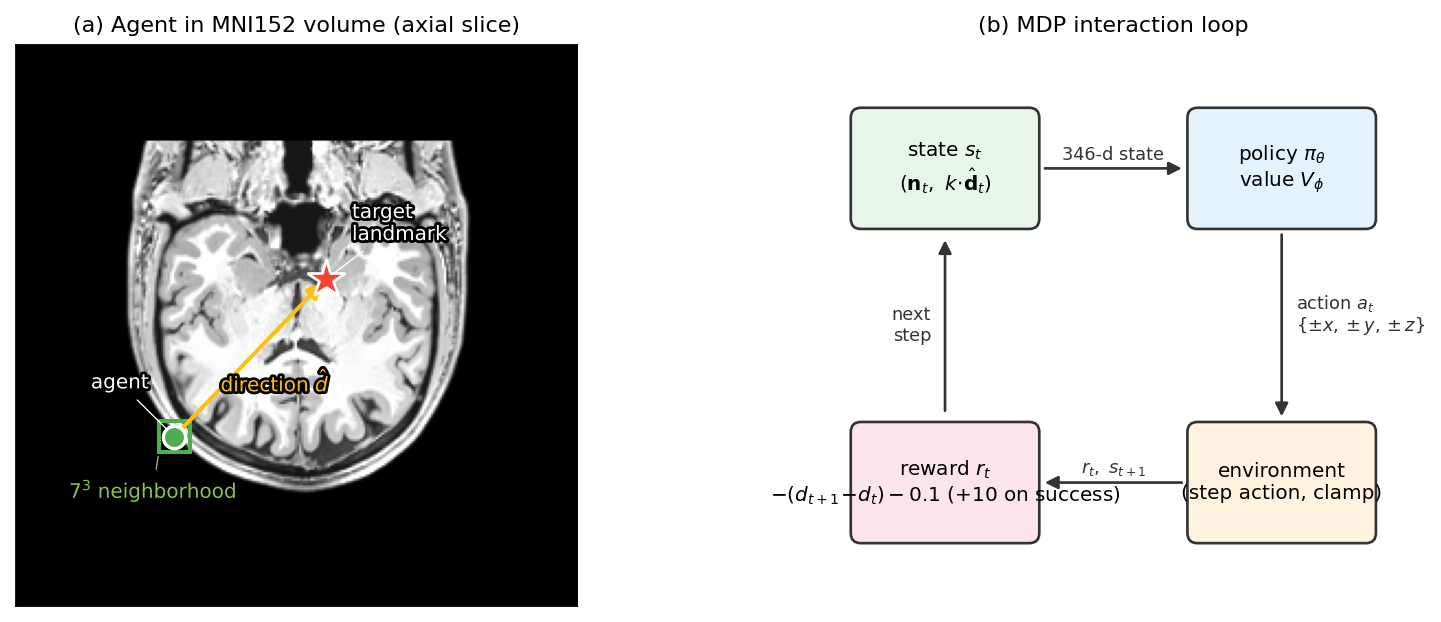
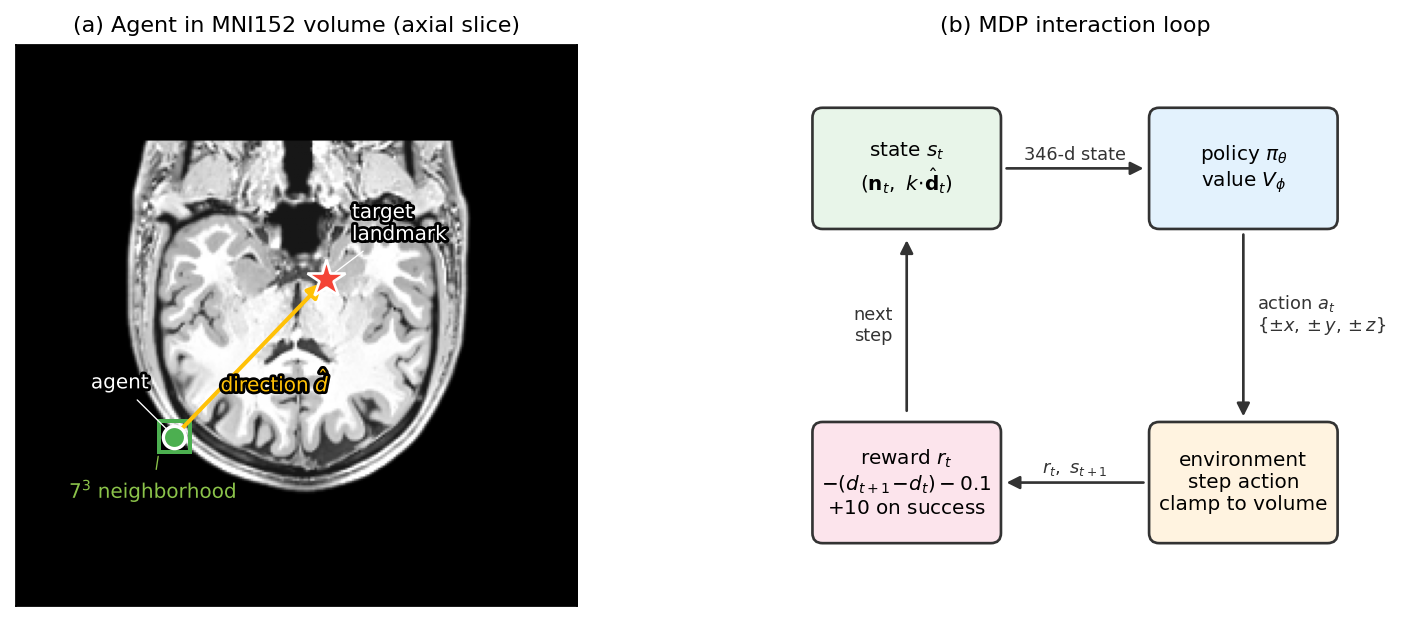
Add landmark-difficulty analysis and multi-scale comparison figures
- New scripts/analyze_landmark_difficulty.py computes per-landmark
  difficulty features (patch std, decoy count, axis dominance) and
  renders docs/figures/landmark_difficulty.png.
- Adds docs/figures/multiscale-comparison/ plots referenced by §5.7 of
  the report and public/experiments/singlescale-600.json results dump.
- Minor readability tweak to the system-diagram renderer (splits
  reward and environment box labels onto separate lines).

diff --git a/scripts/analyze_landmark_difficulty.py b/scripts/analyze_landmark_difficulty.py
@@ -1,0 +1,239 @@
+#!/usr/bin/env python3
+"""Per-landmark difficulty features for the 15 subcortical targets.
+
+Computes for each landmark:
+  - PPO last-50 success rate (from docs/all_results.json)
+  - Patch std: intensity stdev in a 7^3 cube centered on the target voxel
+  - Decoy count: number of voxel positions within 30 voxels of the target whose
+    7^3 patch has mean intensity within 5% of the target patch mean (lower is better)
+  - Axis dominance: |max(|d_i|)| / sum(|d_i|) for the unit direction vector from
+    the volume centroid to the target (analytic geometry proxy; higher = the
+    target lies along one dominant axis from typical starts)
+  - Anatomical class: ventricle / gray-nucleus / brain-stem / cerebellum
+
+Saves a scatter to docs/figures/landmark_difficulty.png and prints a sorted table.
+"""
+import json
+import os
+from pathlib import Path
+import numpy as np
+import nibabel as nib
+import matplotlib.pyplot as plt
+
+REPO = Path(__file__).resolve().parent.parent
+VOL_PATH = REPO / 'public' / 't1_crop.nii.gz'
+PPO_PATH = REPO / 'docs' / 'all_results.json'
+OUT_PATH = REPO / 'docs' / 'figures' / 'landmark_difficulty.png'
+
+# From src/lib/landmarks.ts
+MNI_COORDS = {
+    'Thalamus':                   (99, 134, 82),
+    'Caudate':                    (108, 155, 90),
+    'Putamen':                    (115, 145, 82),
+    'Pallidum':                   (110, 140, 80),
+    'Hippocampus':                (110, 115, 68),
+    'Amygdala':                   (115, 115, 62),
+    'Brain-Stem':                 (90, 118, 58),
+    'Cerebellum-White-Matter':    (100, 100, 45),
+    'Cerebellum-Cortex':          (108, 90, 40),
+    'Lateral-Ventricle':          (96, 145, 92),
+    'Inferior-Lateral-Ventricle': (108, 120, 62),
+    '3rd-Ventricle':              (90, 140, 82),
+    '4th-Ventricle':              (90, 108, 50),
+    'Accumbens-area':             (112, 155, 60),
+    'VentralDC':                  (102, 130, 72),
+}
+
+CLASS = {
+    'Lateral-Ventricle': 'CSF', 'Inferior-Lateral-Ventricle': 'CSF',
+    '3rd-Ventricle': 'CSF', '4th-Ventricle': 'CSF',
+    'Thalamus': 'gray-nucleus', 'Caudate': 'gray-nucleus',
+    'Putamen': 'gray-nucleus', 'Pallidum': 'gray-nucleus',
+    'Hippocampus': 'gray-nucleus', 'Amygdala': 'gray-nucleus',
+    'Accumbens-area': 'gray-nucleus', 'VentralDC': 'gray-nucleus',
+    'Brain-Stem': 'brain-stem',
+    'Cerebellum-White-Matter': 'cerebellum', 'Cerebellum-Cortex': 'cerebellum',
+}
+
+CLASS_COLOR = {
+    'CSF': '#1976D2',
+    'gray-nucleus': '#E64A19',
+    'brain-stem': '#7B1FA2',
+    'cerebellum': '#388E3C',
+}
+
+PATCH_RADIUS = 3   # 7^3 cube
+DECOY_RADIUS = 30  # voxel ball
+DECOY_TOL = 0.05   # within 5% of target patch mean intensity
+
+def patch_at(vol, x, y, z, r=PATCH_RADIUS):
+    return vol[x-r:x+r+1, y-r:y+r+1, z-r:z+r+1]
+
+def normalize(vol):
+    lo, hi = float(vol.min()), float(vol.max())
+    return (vol.astype(np.float32) - lo) / max(hi - lo, 1e-8)
+
+def features():
+    vol = normalize(nib.load(str(VOL_PATH)).get_fdata())
+    cx, cy, cz = (np.array(vol.shape) // 2).tolist()
+
+    out = []
+    for name, (x, y, z) in MNI_COORDS.items():
+        # patch std at landmark
+        p = patch_at(vol, x, y, z)
+        patch_mean = float(p.mean())
+        patch_std = float(p.std())
+
+        # decoy count: voxels within DECOY_RADIUS whose patch mean is within DECOY_TOL of target
+        x0, x1 = max(PATCH_RADIUS, x-DECOY_RADIUS), min(vol.shape[0]-PATCH_RADIUS-1, x+DECOY_RADIUS)
+        y0, y1 = max(PATCH_RADIUS, y-DECOY_RADIUS), min(vol.shape[1]-PATCH_RADIUS-1, y+DECOY_RADIUS)
+        z0, z1 = max(PATCH_RADIUS, z-DECOY_RADIUS), min(vol.shape[2]-PATCH_RADIUS-1, z+DECOY_RADIUS)
+        decoys = 0
+        sample_step = 2  # subsample for speed
+        for xi in range(x0, x1+1, sample_step):
+            for yi in range(y0, y1+1, sample_step):
+                for zi in range(z0, z1+1, sample_step):
+                    if abs(xi-x) < PATCH_RADIUS and abs(yi-y) < PATCH_RADIUS and abs(zi-z) < PATCH_RADIUS:
+                        continue  # skip the target itself
+                    if (xi-x)**2 + (yi-y)**2 + (zi-z)**2 > DECOY_RADIUS**2:
+                        continue
+                    pm = float(vol[xi-PATCH_RADIUS:xi+PATCH_RADIUS+1,
+                                   yi-PATCH_RADIUS:yi+PATCH_RADIUS+1,
+                                   zi-PATCH_RADIUS:zi+PATCH_RADIUS+1].mean())
+                    if abs(pm - patch_mean) < DECOY_TOL:
+                        decoys += 1
+
+        # axis dominance: |d| max / sum, from volume centroid to target
+        d = np.array([x - cx, y - cy, z - cz], dtype=float)
+        absd = np.abs(d)
+        axis_dom = float(absd.max() / max(absd.sum(), 1e-8))
+
+        out.append({
+            'name': name,
+            'class': CLASS[name],
+            'patch_std': patch_std,
+            'patch_mean': patch_mean,
+            'decoys': decoys,
+            'axis_dom': axis_dom,
+            'centroid_dist': float(np.linalg.norm(d)),
+        })
+    return out
+
+def ppo_outcomes():
+    """PPO last-50 success and final distance per landmark from docs/all_results.json."""
+    runs = json.load(open(PPO_PATH))
+    succ, dist = {}, {}
+    for r in runs:
+        c = r['config']
+        if c.get('agentType') != 'ppo':
+            continue
+        eps = r['episodes'][-50:]
+        succ.setdefault(c['landmark'], []).append(float(np.mean([e['success'] for e in eps])))
+        dist.setdefault(c['landmark'], []).append(float(np.mean([e['finalDistance'] for e in eps])))
+    return ({k: float(np.mean(v)) for k, v in succ.items()},
+            {k: float(np.mean(v)) for k, v in dist.items()})
+
+def residuals(y, x):
+    """Residuals of y after linear regression on x."""
+    X = np.column_stack([np.asarray(x, dtype=float), np.ones_like(x, dtype=float)])
+    from numpy.linalg import lstsq
+    beta, *_ = lstsq(X, y, rcond=None)
+    return y - X @ beta
+
+def main():
+    feats = features()
+    succ, dist = ppo_outcomes()
+
+    rows = []
+    for f in feats:
+        rows.append({**f,
+                     'ppo_succ': succ.get(f['name'], np.nan),
+                     'ppo_dist': dist.get(f['name'], np.nan)})
+
+    rows.sort(key=lambda r: r['ppo_dist'] if not np.isnan(r['ppo_dist']) else 1e9)
+
+    print(f"{'Landmark':>28} | {'class':>13} | {'PPO succ':>9} | {'PPO dist':>9} | {'patch_std':>9} | {'decoys':>6} | {'axis_dom':>8}")
+    print('-' * 110)
+    for r in rows:
+        print(f"{r['name']:>28} | {r['class']:>13} | {r['ppo_succ']*100:>8.1f}% | "
+              f"{r['ppo_dist']:>9.1f} | {r['patch_std']:>9.3f} | {r['decoys']:>6d} | {r['axis_dom']:>8.3f}")
+
+    # Pearson correlations (ignore NaN)
+    arr = np.array([(r['ppo_succ'], r['ppo_dist'], r['patch_std'], r['decoys'], r['axis_dom'], r['centroid_dist'])
+                    for r in rows if not np.isnan(r['ppo_succ'])])
+    if len(arr) >= 3:
+        from itertools import combinations
+        names = ['PPO succ', 'PPO dist', 'patch_std', 'decoys', 'axis_dom', 'centr_dist']
+        print('\nPearson r (n={}):'.format(len(arr)))
+        for i, j in combinations(range(arr.shape[1]), 2):
+            r = float(np.corrcoef(arr[:, i], arr[:, j])[0, 1])
+            print(f'  {names[i]:>10} ~ {names[j]:>10}: r = {r:+.3f}')
+
+    # Partial correlation of patch_std with PPO dist, controlling for centroid_dist
+    # (does appearance still predict difficulty after we account for "is the target near the volume center"?)
+    from numpy.linalg import lstsq
+    if len(arr) >= 5:
+        ppo_dist = arr[:, 1]
+        patch_std = arr[:, 2]
+        decoys = arr[:, 3]
+        centr = arr[:, 5]
+        for name, feat in [('patch_std', patch_std), ('decoys', decoys)]:
+            ry = residuals(ppo_dist, centr)
+            rx = residuals(feat, centr)
+            pr = float(np.corrcoef(ry, rx)[0, 1])
+            print(f'  partial r(PPO dist, {name} | centroid_dist) = {pr:+.3f}')
+
+    # Two-panel: (left) raw geometry effect, (right) appearance after geometry partialled out
+    fig, axes = plt.subplots(1, 2, figsize=(11, 4.5))
+
+    valid = [r for r in rows if not np.isnan(r['ppo_dist'])]
+    centr = np.array([r['centroid_dist'] for r in valid])
+    pdist = np.array([r['ppo_dist'] for r in valid])
+    pstd  = np.array([r['patch_std'] for r in valid])
+    pdist_resid = residuals(pdist, centr)
+    pstd_resid  = residuals(pstd, centr)
+
+    # Left: PPO dist vs centroid_dist (the geometry confound)
+    ax = axes[0]
+    for cls, color in CLASS_COLOR.items():
+        xs = [r['centroid_dist'] for r in valid if r['class'] == cls]
+        ys = [r['ppo_dist']      for r in valid if r['class'] == cls]
+        ax.scatter(xs, ys, s=80, color=color, alpha=0.85, edgecolor='black',
+                   linewidth=0.5, label=cls)
+    for r in valid:
+        ax.annotate(r['name'].replace('Cerebellum-', 'Cb-').replace('Inferior-Lateral', 'I-Lat')[:14],
+                    (r['centroid_dist'], r['ppo_dist']), fontsize=7, alpha=0.8,
+                    xytext=(4, 2), textcoords='offset points')
+    ax.set_xlabel('Centroid distance: target $\\to$ volume center (vox)', fontsize=9)
+    ax.set_ylabel('PPO last-50 final distance (vox)', fontsize=9)
+    ax.set_title(f'Geometry confound: r = {float(np.corrcoef(centr, pdist)[0,1]):+.3f}', fontsize=10)
+    ax.grid(True, alpha=0.3); ax.tick_params(labelsize=8); ax.legend(fontsize=8, loc='best')
+
+    # Right: PPO dist residual vs patch_std residual (geometry partialled out)
+    ax = axes[1]
+    for cls, color in CLASS_COLOR.items():
+        idx = [i for i, r in enumerate(valid) if r['class'] == cls]
+        ax.scatter(pstd_resid[idx], pdist_resid[idx], s=80, color=color, alpha=0.85,
+                   edgecolor='black', linewidth=0.5, label=cls)
+    for i, r in enumerate(valid):
+        ax.annotate(r['name'].replace('Cerebellum-', 'Cb-').replace('Inferior-Lateral', 'I-Lat')[:14],
+                    (pstd_resid[i], pdist_resid[i]), fontsize=7, alpha=0.8,
+                    xytext=(4, 2), textcoords='offset points')
+    pr = float(np.corrcoef(pstd_resid, pdist_resid)[0, 1])
+    # add a regression line
+    xline = np.linspace(pstd_resid.min(), pstd_resid.max(), 100)
+    slope, intercept = np.polyfit(pstd_resid, pdist_resid, 1)
+    ax.plot(xline, slope * xline + intercept, color='gray', linestyle='--', linewidth=1, alpha=0.7)
+    ax.set_xlabel('Patch std residual (after partialing out centroid distance)', fontsize=9)
+    ax.set_ylabel('PPO dist residual (vox)', fontsize=9)
+    ax.set_title(f'Appearance, geometry-controlled: partial r = {pr:+.3f}', fontsize=10)
+    ax.grid(True, alpha=0.3); ax.tick_params(labelsize=8); ax.legend(fontsize=8, loc='best')
+
+    fig.suptitle('What predicts per-landmark difficulty? PPO at $k=1$, 15 subcortical landmarks',
+                 fontsize=11, fontweight='bold')
+    fig.tight_layout()
+    fig.savefig(str(OUT_PATH), dpi=150, bbox_inches='tight')
+    print(f'\nSaved {OUT_PATH}')
+
+if __name__ == '__main__':
+    main()

diff --git a/scripts/render_system_diagram.py b/scripts/render_system_diagram.py
@@ -126,11 +126,11 @@ def panel_mdp(ax):
         '#E3F2FD')
     # Environment box (bottom-right).
     box((6.4, 1.2), 3.2, 2.0,
-        'environment\n(step action, clamp)',
+        'environment\nstep action\nclamp to volume',
         '#FFF3E0')
     # Reward box (bottom-left).
     box((0.4, 1.2), 3.2, 2.0,
-        'reward $r_t$\n$-(d_{t+1}\\!-\\!d_t) - 0.1\\ (+10\\text{ on success})$',
+        'reward $r_t$\n$-(d_{t+1}\\!-\\!d_t) - 0.1$\n$+10$ on success',
         '#FCE4EC')
 
     # Arrows between boxes.
